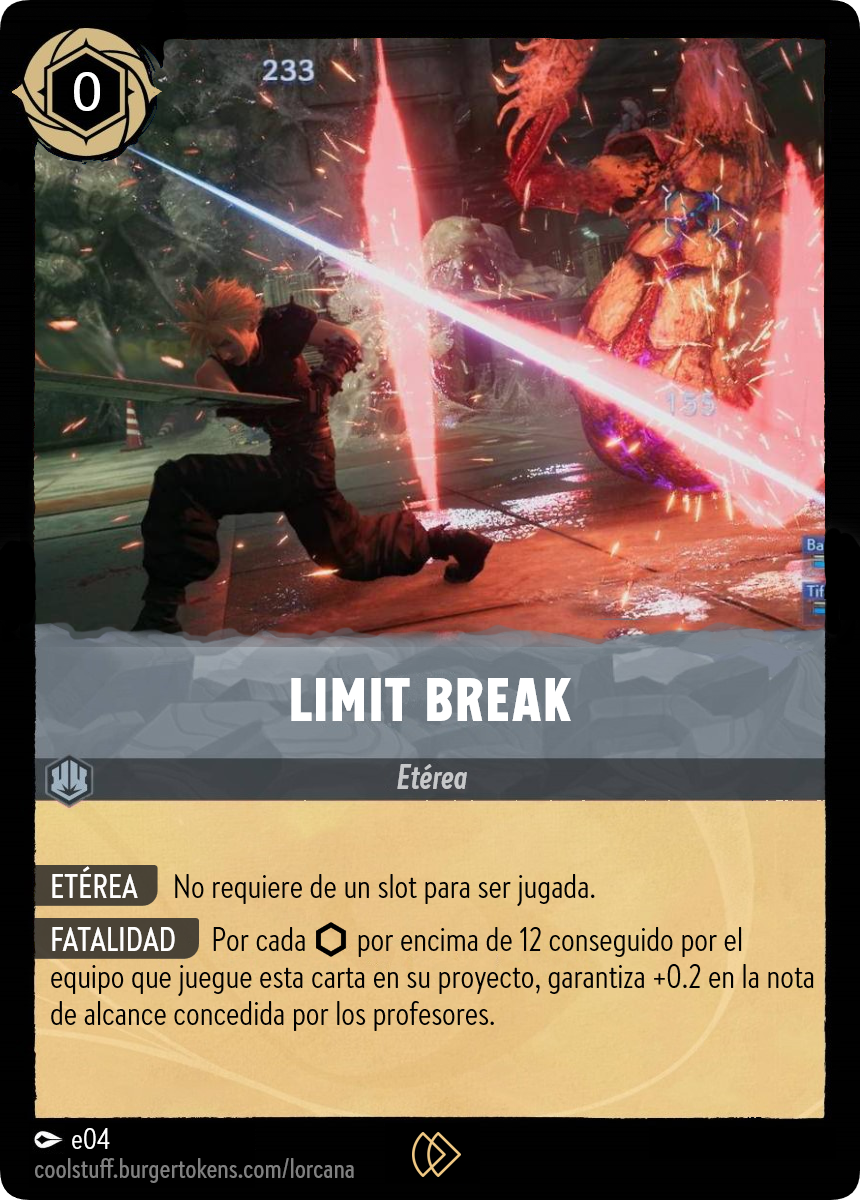
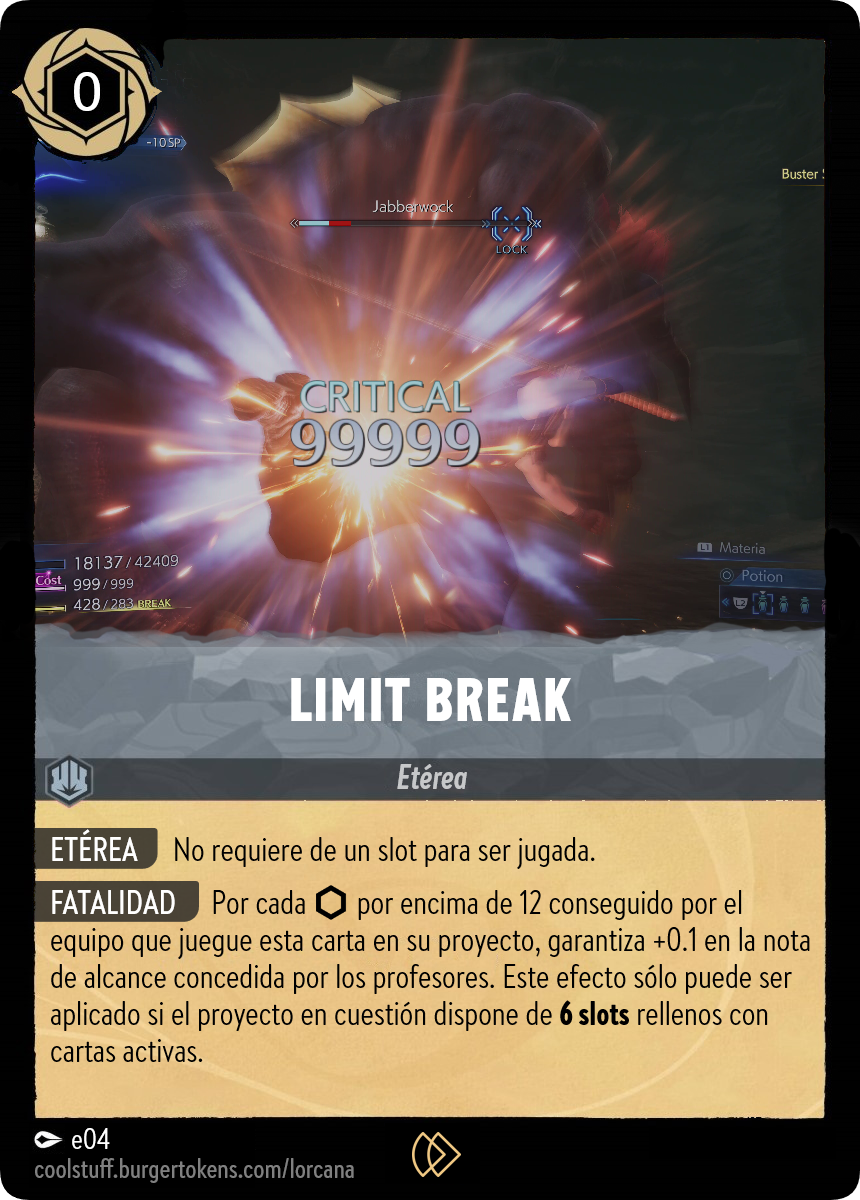
Ampliación con cartas cuánticas y etéreas

diff --git a/index.html b/index.html
@@ -14,11 +14,11 @@
 	</h2>
 	<div class="search-panel">
 		<div class="controls">
-			<img class="category" src="./img/icons/blue.png" onclick="filterByType('Mecánica')"></img>
-			<img class="category" src="./img/icons/red.png" onclick="filterByType('Personaje')"></img>
-			<img class="category" src="./img/icons/green.png" onclick="filterByType('Ambientación')"></img>
-			<img class="category" src="./img/icons/orange.png" onclick="filterByType('Cuántica')"></img>
-			<img class="category" src="./img/icons/gray.png" onclick="filterByType('Etérea')"></img>
+			<img class="category" alt="Mecánicas" src="./img/icons/blue.png" onclick="filterByType('Mecánica')"></img>
+			<img class="category" alt="Personajes" src="./img/icons/red.png" onclick="filterByType('Personaje')"></img>
+			<img class="category" alt="Ambientaciones" src="./img/icons/green.png" onclick="filterByType('Ambientación')"></img>
+			<img class="category" alt="Cuánticas" src="./img/icons/orange.png" onclick="filterByType('Cuántica')"></img>
+			<img class="category" alt="Etéreas" src="./img/icons/gray.png" onclick="filterByType('Etérea')"></img>
 		</div>
 		<div class="searchbox">
 		  <svg aria-hidden="true" viewBox="0 0 24 24">
@@ -41,5 +41,23 @@
         <img id="popupImg" src="" alt="Zoomed Card">
     </div>
     <script type="module" src="./card-gallery.js"></script>
+		<script>
+			function updateCounter(value) {
+					const digits = document.querySelectorAll('.digit span');
+					const formattedValue = String(value).padStart(3, '0');
+					
+					digits.forEach((digit, index) => {
+							const newValue = formattedValue[index];
+							digit.style.transform = `translateY(-${newValue * 60}px)`;
+							digit.textContent = newValue;
+					});
+			}
+			
+			let counterValue = 0;
+			setInterval(() => {
+					counterValue = (counterValue + 1) % 1000;
+					updateCounter(counterValue);
+			}, 2000);
+	</script>
 </body>
 </html>

diff --git a/cards.js b/cards.js
@@ -1308,6 +1308,76 @@ export const cards = [
       "https://thomaskinkade.com/cdn/shop/collections/Harry_Potter__Hogwarts__Castle.jpg?v=1708955739",
     artist: "a24",
   },
+  {
+    color: "orange",
+    name: "Navi Cuántica",
+    type: "Cuántica",
+  },
+  {
+    color: "orange",
+    name: "Invocación Cuántica",
+    type: "Cuántica",
+  },
+  {
+    color: "orange",
+    name: "Pasado Cuántico",
+    type: "Cuántica",
+  },
+  {
+    color: "orange",
+    name: "Universo Cuántico",
+    type: "Cuántica",
+  },
+  {
+    color: "gray",
+    name: "Drawn to Card",
+    type: "Etérea",
+  },
+  {
+    color: "gray",
+    name: "El Pasado",
+    type: "Etérea",
+  },
+  {
+    color: "gray",
+    name: "Emociones Reprimidas",
+    type: "Etérea",
+  },
+  {
+    color: "gray",
+    name: "Limit Break",
+    type: "Etérea",
+  },
+  {
+    color: "gray",
+    name: "Mago del Tiempo",
+    type: "Etérea",
+  },
+  {
+    color: "gray",
+    name: "Mago Oscuro",
+    type: "Etérea",
+  },
+  {
+    color: "gray",
+    name: "Maracas de Insignias",
+    type: "Etérea",
+  },
+  {
+    color: "gray",
+    name: "Marcha Espectral",
+    type: "Etérea",
+  },
+  {
+    color: "gray",
+    name: "Persona 3",
+    type: "Etérea",
+  },
+  {
+    color: "gray",
+    name: "Tráfico de Nabos",
+    type: "Etérea",
+  },
 ];
 
 export default cards;

diff --git a/card-gallery.js b/card-gallery.js
@@ -24,6 +24,12 @@ function buildCardPath(card) {
     case "blue":
       path = "mecánicas";
       break;
+    case "orange":
+      path = "cuánticas";
+      break;
+    case "gray":
+      path = "etéreas";
+      break;
     default:
       break;
   }
@@ -42,7 +48,9 @@ function filterByType(type) {
 }
 
 function filterCards(txt) {
-  const filtered = cards.filter((card) => card.name.toLowerCase().includes(txt));
+  const filtered = cards.filter((card) =>
+    card.name.toLowerCase().includes(txt)
+  );
   displayCards(filtered);
 }
 
